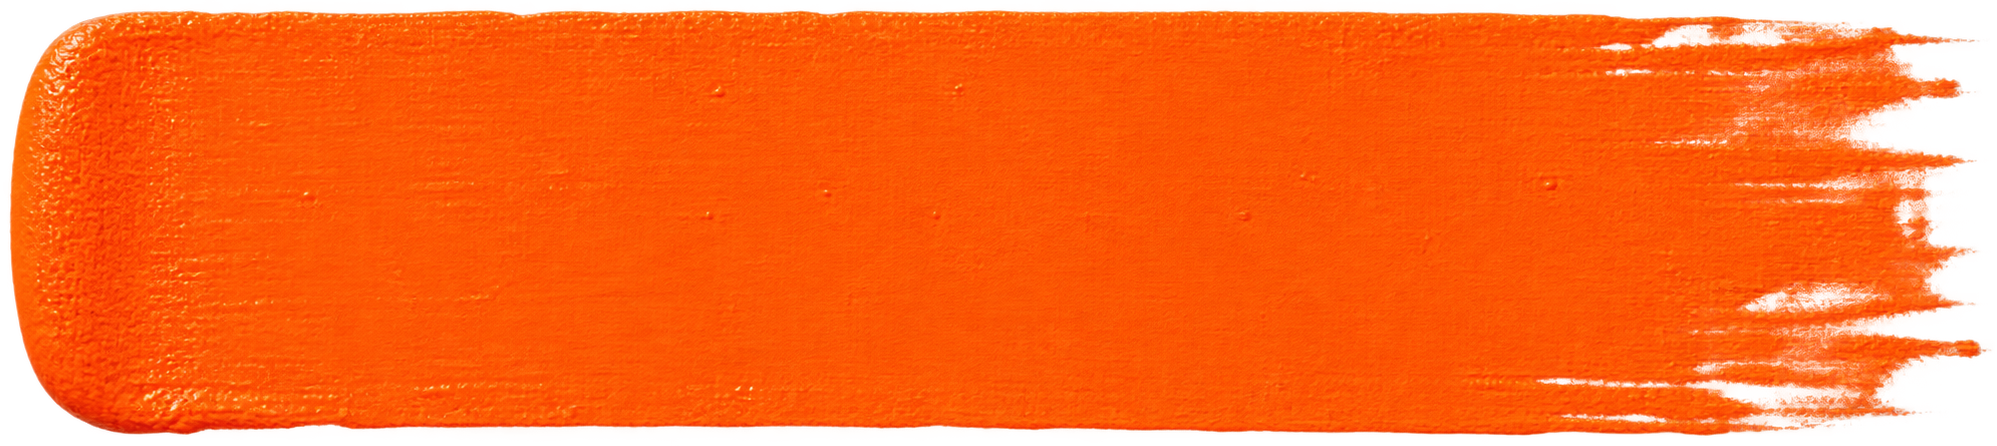
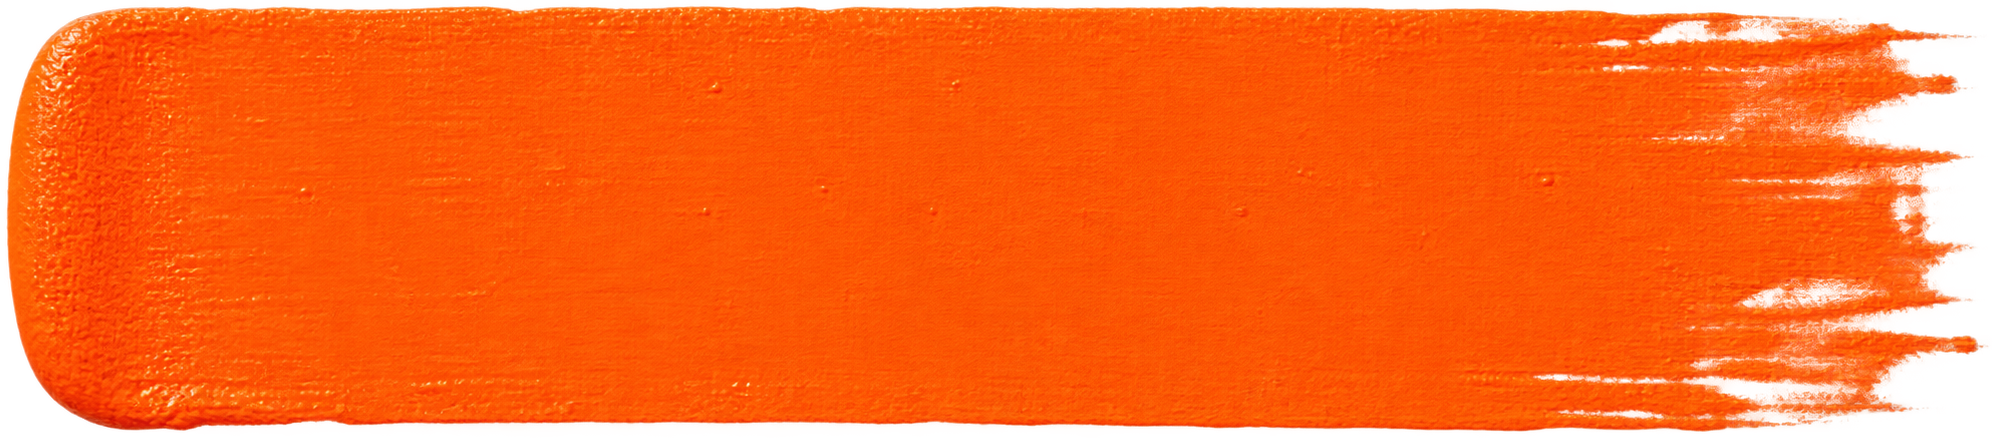
Rebrand to Pierce Pro Painting LLC

diff --git a/src/lib/site-config.ts b/src/lib/site-config.ts
@@ -13,14 +13,14 @@
  */
 
 export const siteConfig = {
-  businessName: "Pierce Painting Co.",
-  shortName: "Pierce Painting",
+  businessName: "Pierce Pro Painting LLC",
+  shortName: "Pierce Pro Painting",
   tagline: "Tri-Cities painting, done with care.",
   description:
-    "Pierce Painting Co. is a locally owned painting contractor serving Kennewick, Richland, Pasco, and Benton City, Washington. Interior, exterior, cabinet, and commercial painting with careful preparation and clear communication.",
+    "Pierce Pro Painting LLC is a locally owned painting contractor serving Kennewick, Richland, Pasco, and Benton City, Washington. Interior, exterior, cabinet, and commercial painting with careful preparation and clear communication.",
 
   // PLACEHOLDER: update once the production domain is live and deployed.
-  siteUrl: "https://www.piercepaintingco.com",
+  siteUrl: "https://www.piercepropainting.com",
 
   phone: {
     display: "(509) 802-4309",
@@ -28,12 +28,12 @@ export const siteConfig = {
   },
 
   // PLACEHOLDER: mailbox does not exist yet (pending domain + Zoho Mail setup).
-  // Update once info@piercepaintingco.com is live, or remove this field from
+  // Update once info@piercepropainting.com is live, or remove this field from
   // any component that renders it if the business prefers phone-only contact
   // until then.
   email: {
-    display: "info@piercepaintingco.com",
-    href: "mailto:info@piercepaintingco.com",
+    display: "info@piercepropainting.com",
+    href: "mailto:info@piercepropainting.com",
     isPlaceholder: true,
   },
 

diff --git a/src/components/home/Testimonials.tsx b/src/components/home/Testimonials.tsx
@@ -20,7 +20,7 @@ export default function Testimonials() {
               <Image src="/assets/pierce-testimonial-quote-graphic.png" alt="" fill className="object-contain" />
             </span>
             <p className="text-charcoal/70">
-              Reviews are coming soon — we&rsquo;re just getting Pierce Painting Co.&rsquo;s online
+              Reviews are coming soon — we&rsquo;re just getting Pierce Pro Painting LLC&rsquo;s online
               presence started. Check back after a few projects wrap up.
             </p>
           </div>

diff --git a/src/app/api/estimate/route.ts b/src/app/api/estimate/route.ts
@@ -6,7 +6,7 @@ import { NextRequest, NextResponse } from "next/server";
  * IMPORTANT — before launch: this currently only validates and logs the
  * submission server-side. It does NOT send an email, text, or CRM entry
  * yet. Wire this up to a real provider (e.g. Resend, Postmark, or Zoho
- * Mail's SMTP once info@piercepaintingco.com is live) before relying on
+ * Mail's SMTP once info@piercepropainting.com is live) before relying on
  * it to actually reach the business.
  */
 export async function POST(request: NextRequest) {

diff --git a/src/app/contact/page.tsx b/src/app/contact/page.tsx
@@ -8,7 +8,7 @@ import { siteConfig } from "@/lib/site-config";
 export const metadata: Metadata = {
   title: "Request a Free Estimate",
   description:
-    "Request a free painting estimate from Pierce Painting Co., serving Kennewick, Richland, Pasco, and Benton City, WA.",
+    "Request a free painting estimate from Pierce Pro Painting LLC, serving Kennewick, Richland, Pasco, and Benton City, WA.",
   alternates: { canonical: `${siteConfig.siteUrl}/contact` },
 };
 

diff --git a/src/components/shared/SectionDivider.tsx b/src/components/shared/SectionDivider.tsx
@@ -3,7 +3,7 @@ import Image from "next/image";
 export default function SectionDivider() {
   return (
     <div aria-hidden="true" className="bg-cream-soft py-2 sm:py-4">
-      <div className="relative mx-auto aspect-[1997/446] w-[90%] max-w-[640px] sm:max-w-[832px]">
+      <div className="relative mx-auto aspect-[1995/438] w-[90%] max-w-[640px] sm:max-w-[832px]">
         <Image
           src="/assets/pierce-orange-stroke-trimmed.png"
           alt=""

diff --git a/src/components/home/TrustBadges.tsx b/src/components/home/TrustBadges.tsx
@@ -7,7 +7,7 @@ export default function TrustBadges() {
   return (
     <section className="py-20 sm:py-24" aria-labelledby="trust-heading">
       <Container>
-        <SectionHeading eyebrow="Why Pierce Painting" title="What you can count on" />
+        <SectionHeading eyebrow="Why Pierce Pro Painting" title="What you can count on" />
         <ul className="mt-12 grid gap-6 sm:grid-cols-3">
           {trustBadges.map((badge) => (
             <li

diff --git a/src/components/home/ProjectShowcase.tsx b/src/components/home/ProjectShowcase.tsx
@@ -14,7 +14,7 @@ export default function ProjectShowcase() {
           <SectionHeading
             align="left"
             eyebrow="Recent Work"
-            title="A look at real Pierce Painting projects"
+            title="A look at real Pierce Pro Painting projects"
           />
           <Link href="/gallery" className="text-sm font-bold text-orange-dark hover:underline">
             View the full gallery →

diff --git a/src/app/gallery/page.tsx b/src/app/gallery/page.tsx
@@ -6,7 +6,7 @@ import { siteConfig } from "@/lib/site-config";
 
 export const metadata: Metadata = {
   title: "Project Gallery",
-  description: "Real Pierce Painting Co. projects across the Tri-Cities, filterable by category.",
+  description: "Real Pierce Pro Painting LLC projects across the Tri-Cities, filterable by category.",
   alternates: { canonical: `${siteConfig.siteUrl}/gallery` },
 };
 
